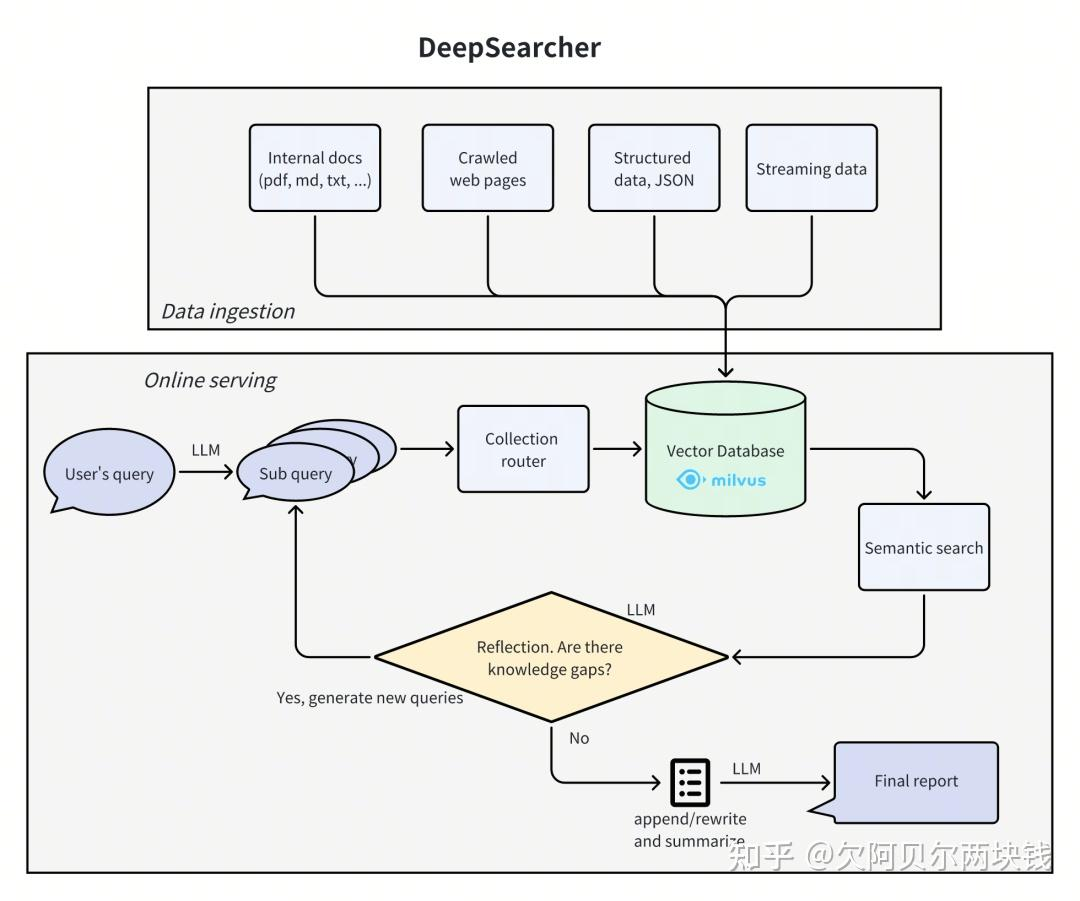
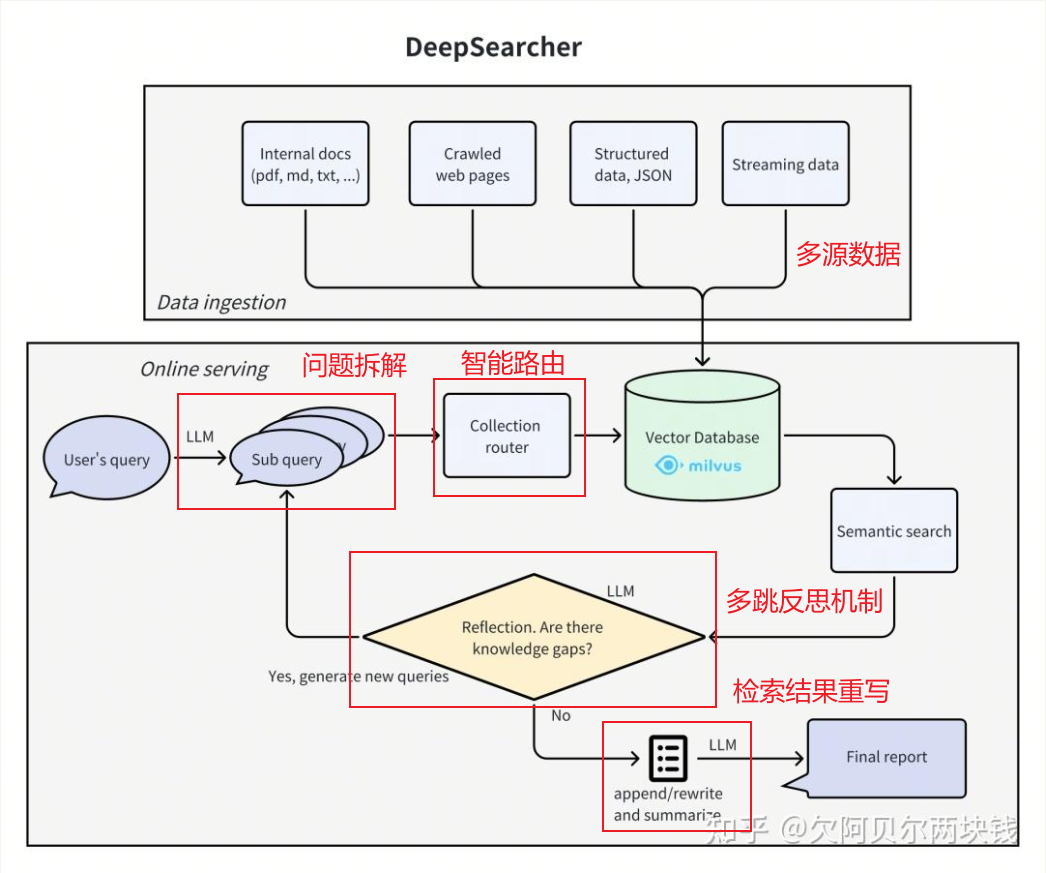
提交新文章1-261102

diff --git a/blog.html b/blog.html
@@ -2,10 +2,11 @@
 <html lang="zh-CN"><head><meta charset="utf-8"><meta name="viewport" content="width=device-width, initial-scale=1"><meta name="description" content="嘻嘻仙人的技术博客"><title>技术博客 · 嘻嘻仙人</title><link rel="stylesheet" href="styles.css"></head>
 <body><header class="site-header"><a class="brand" href="index.html">嘻嘻仙人</a><nav><a href="index.html">首页</a><a class="active" href="blog.html">技术博客</a><a href="notes.html">随笔</a></nav><a class="header-link" href="https://github.com/" target="_blank" rel="noreferrer">GitHub ↗</a></header>
 <main><section class="page-intro container"><p class="eyebrow">TECHNICAL BLOG</p><h1>把问题想明白，<br><em>再写下来。</em></h1><p class="intro-copy">关于Agent学习、通信技术和工程实践的长期记录。</p></section><section class="container article-list">
+<a class="article-row" href="articals/article-2e90df2780.html"><div class="article-index">25</div><div class="article-content"><p class="article-kicker">TECHNICAL BLOG · 2026-11-02</p><h2>从Transformer到LLM的思考（261102）</h2><p>曾几何时，我脑海中有了这样一个认知“Transformer模型是LLM的基础”，但是奇怪的是，我似乎并不知道这个认知从何而来，恰又读到了rubber duck的思考方法，借此机会进行梳理。</p></div><span class="arrow">↗</span></a>
 <a class="article-row" href="articals/article-fab9063b3f.html"><div class="article-index">24</div><div class="article-content"><p class="article-kicker">TECHNICAL BLOG · 2026-11-01</p><h2>从Transformer和Attention机制到LLM（261101）</h2><p>自从Transformer架构横空出世，到LLM蓬勃发展，我们意识到Transformer是LLM得以发展的驱动力之一，那么Transformer是如何为LLM奠定基础的，从Transformer最初用于文本翻译到后来用于大模型文本生成，这其中又有怎样的不同？本文将从输入文本到下一个 Token，解析LLM生成文本的全流程，以及这其中涉及的Transformer架构。</p></div><span class="arrow">↗</span></a>
 <a class="article-row" href="articals/article-4e2616643b.html"><div class="article-index">23</div><div class="article-content"><p class="article-kicker">TECHNICAL BLOG · 2026-10-30</p><h2>SDD规范开发（261030）</h2><p>Specification-Driven Development（规范驱动开发） 是一种软件开发方法，它强调在编写任何实际代码之前，必须首先编写一份详尽、精确、可执行的规范。这份规范是开发过程的唯一权威来源和主要驱动力。</p></div><span class="arrow">↗</span></a>
 <a class="article-row" href="articals/article-d6b0cdeb17.html"><div class="article-index">22</div><div class="article-content"><p class="article-kicker">TECHNICAL BLOG · 2026-10-29</p><h2>JEV（261029）</h2><p>在通用大模型盛行的今天，很多时候一些对延迟和响应速度极度敏感的任务大模型是无法胜任的，和llm无法避免概率模型本质造成的幻觉一样，大模型逐字做自回归生成的本质摆在那里，延迟很难压缩到极致。</p></div><span class="arrow">↗</span></a>
-<a class="article-row" href="articals/article-bf07542214.html"><div class="article-index">21</div><div class="article-content"><p class="article-kicker">TECHNICAL BLOG · 2026-10-27</p><h2>deep Research（261027）</h2><p>OpenAI 在 2024 年 9 月发布的 o1-preview，它引入了推理时计算（test-time compute）的概念，并逐渐改变了行业观点。推理时计算指的是在推理阶段（LLM 生成输出的阶段）使用更多计算资源，而不是在预训练或后训练阶段。众所周知的例子包括思维链（Chain-of-Thought，CoT）推理和 &quot;Wait&quot; 注入（即预算强制），这使模型能够进行更广泛的内部深思熟虑，比如评估多个潜在答案、进行更深入的规划，并在得出最终回答之前进行自我反思。</p></div><span class="arrow">↗</span></a>
+<a class="article-row" href="articals/article-bf07542214.html"><div class="article-index">21</div><div class="article-content"><p class="article-kicker">TECHNICAL BLOG · 2026-10-27</p><h2>deep Research（261027）</h2><p>尽管LLMs在通用任务中表现卓越，但是其知识受限于训练时的静态参数记忆， 难以应对动态或者专业领域任务。</p></div><span class="arrow">↗</span></a>
 <a class="article-row" href="articals/article-e75ac02a5e.html"><div class="article-index">20</div><div class="article-content"><p class="article-kicker">TECHNICAL BLOG · 2026-10-27</p><h2>Deferred MCP Tools（261027）</h2><p>Deferred MCP Tools（延迟加载的 MCP 工具）是一种将工具可见性与可调用性分离的上下文管理策略：模型默认只看到工具名或极简描述，完整 Schema 仅在任务需要时通过搜索或发现流程动态注入。它的核心价值不在于单纯节省 Token，而在于让 Agent 在连接数百甚至上千个工具时，不会因为上下文被无关定义塞满而丧失判断力。</p></div><span class="arrow">↗</span></a>
 <a class="article-row" href="articals/article-a2d0ccc46e.html"><div class="article-index">19</div><div class="article-content"><p class="article-kicker">TECHNICAL BLOG · 2026-10-26</p><h2>cross-encoder（261026）</h2><p>交叉编码器（Cross-encoder）是一种神经网络架构，用于将查询-文档对一起处理以计算相关性评分。与传统嵌入模型（Bi-encoder）分开处理查询和文档不同，交叉编码器允许两个序列中的所有token之间进行充分的自注意力交互，从而直接输出相关性评分。</p></div><span class="arrow">↗</span></a>
 <a class="article-row" href="articals/article-73e6ae28fb.html"><div class="article-index">18</div><div class="article-content"><p class="article-kicker">TECHNICAL BLOG · 2026-10-25</p><h2>缓存命中（261025）</h2><p>调用大模型API的返回值里面疆场会出现 cachereadinputtokens 这类字段。这其中藏着一条捷径，既能够成倍降低延迟，又能显著节省成本，这条捷径就是缓存命中</p></div><span class="arrow">↗</span></a>

diff --git a/articals/article-2e90df2780.html b/articals/article-2e90df2780.html
@@ -1,0 +1,3 @@
+<!doctype html>
+<html lang="zh-CN"><head><meta charset="utf-8"><meta name="viewport" content="width=device-width, initial-scale=1"><base href="../"><meta name="description" content="从Transformer到LLM的思考（261102）"><title>从Transformer到LLM的思考（261102） · 技术博客 · 嘻嘻仙人</title><link rel="stylesheet" href="styles.css"><link rel="stylesheet" href="article-tables.css"><link rel="stylesheet" href="article-toc.css"></head>
+<body><header class="site-header"><a class="brand" href="index.html">嘻嘻仙人</a><nav><a href="index.html">首页</a><a class="active" href="blog.html">技术博客</a><a href="notes.html">随笔</a></nav><a class="header-link" href="https://github.com/" target="_blank" rel="noreferrer">GitHub ↗</a></header><main><article class="article-page container"><div class="article-top"><a class="back-link" href="blog.html">← 技术博客</a><span>2026-11-02</span></div><p class="eyebrow">TECHNICAL BLOG</p><h1>从Transformer到LLM的思考（261102）</h1><div class="article-rule"></div><div class="article-layout"><aside class="article-toc" aria-label="文章目录"><button class="article-toc-toggle" type="button" aria-expanded="true" aria-controls="article-toc-panel"><span class="article-toc-toggle-label">文章目录</span><span aria-hidden="true">⌄</span></button><div class="article-toc-panel" id="article-toc-panel"><p class="article-toc-title">目录</p><nav class="article-toc-list"></nav></div></aside><div id="article-content" class="prose"><p class="loading">正在加载文章内容…</p></div></div></article></main><footer class="site-footer"><div class="container footer-inner"><span>© 2026 嘻嘻仙人</span><a href="blog.html">返回技术博客 ↑</a></div></footer><script src="https://cdn.jsdelivr.net/npm/marked/marked.min.js"></script><script>fetch("content/%E4%BB%8ETransformer%E5%88%B0LLM%E7%9A%84%E6%80%9D%E8%80%83%EF%BC%88261102%EF%BC%89.md").then(r=>r.text()).then(md=>{document.getElementById('article-content').innerHTML=marked.parse(md.replace(/^#.*\n/,''));}).catch(()=>{document.getElementById('article-content').textContent='文章加载失败，请检查 Markdown 文件是否已发布。';});</script><script src="https://cdn.jsdelivr.net/npm/highlight.js@11.11.1/lib/common.min.js"></script><script src="script.js"></script><script src="article-toc.js"></script></body></html>

diff --git a/content/从Transformer到LLM的思考（261102）.md b/content/从Transformer到LLM的思考（261102）.md
@@ -1,0 +1,28 @@
+# 从Transformer到LLM的思考（261102）
+
+曾几何时，我脑海中有了这样一个认知“Transformer模型是LLM的基础”，但是奇怪的是，我似乎并不知道这个认知从何而来，恰又读到了rubber duck的思考方法，借此机会进行梳理。
+
+首先需要明确一个逻辑上的误区，Transformer并不是为LLM而量身定制的，只是人们从Transformer的架构中发现了适合作为LLM文本生成的部分，进而进行开发与扩展。在时间上，Transfomer是谷歌于2017年提出的，Transformer模型最大的亮点就是摒弃了以往RNN，CNN的架构，而是使用了self-attention,从而实现更高效的并行计算，并有效解决了长距离依赖问题（每个token都可以与序列中其他token计算注意力计算）。
+
+而LLM的兴起则是2020年openAI发布的GPT-3（Generative Pre-trained Transformer 3），其中GPT-3 使用的是decoder-only架构，LLM可以通过自回归推理由当前的token输出下一个token，循环往复。
+
+以上的论述才充分解释了一句轻飘飘的“Transformer模型是LLM的基础”。实际上以上两段的陈述就是通过rubber duck的方法才厘清了其中的时间线和逻辑关系。
+
+至于为什么LLM大多数只用了decoder-only架构而不是encoder-only或者encoder-decoder架构呢？首先注意用词，我说的是大多数，而非全部，像最开始的BERT使用的就是encoder-only架构，T5使用的是encoder-decoder架构，而claude则在decoder-only架构上引入了MoE，deepseek-R1最开始也只是使用了decoder-only，后面也引入了MoE。由此可见，Transformer的架构更像是一种理论基础和范式，开发者们是在其上建高楼，至于是建酒店还是商场则取决于不同模型的设计初衷了。
+
+言归正传，我们先来看下Transformer里面的encoder和decoder都干了什么。Transformer最初是面向Seq2Seq任务开发的，输入序列可以通过Transformer得到输出序列，最典型的应用场景是语言翻译。其中encoder中的自注意力机制使得在抽取某个序列中的词的特征时，能够看到整个序列的上下文，可以和上下文的每个token计算注意力分数，而decoder引入了掩码机制，当前的token只能看到自己和之前的token，看不到后面的token。这天然适合文本生成的场景：根据当前已知内容生成新的内容。
+
+decoder-only在LLM中能够大行其道主要是以下几个优势：
+
+- 训练成本低：decoder-only可以用next token prediction做预训练，不需要构建标记的大量数据集。比如“我喜欢机器学习”，把“学习”遮住，那么任务就是根据“我喜欢机器”去预测“学习”，预训练的目的就是尽可能地让模型学会人类的语言方式进行回答问题，但是模型真的能get到人类的思维方式吗？答案是否定的。模型通过自回归不断地学习预测下一个token,这个过程实际上是在压缩自然语言，把自然语言背后的逻辑与内涵进行参数化。除此之外，当模型规模和数据量足够大时，通过next prediction token训练出的模型会涌现出更强大的能力，在各种上下游任务上的zero-shot和few-shot泛化能力都很好。
+
+- 注意力矩阵满秩：回忆一下，矩阵的秩可以被直观地理解为真正独立的信息通道数或者有效信息的维度。在神经网络中，权重矩阵的作用是将输入特征进行组合变换，从而提取中高级的语义特征。如果权重矩阵是满秩的，则意味着模型能够充分利用所有的特征维度，在同等的参数量下，满秩权重矩阵能够捕捉到更丰富、更细微的上下文联系，因此拥有更强的表达能力和建模能力。在encoder中采用的双向注意力机制（bi-directional attention），每个token都可以看到序列中的其他token,模型在计算时容易产生表征趋同现象，导致注意力矩阵退化为低秩状态;而decoder-only采用的是causal attention，注意力矩阵是下三角矩阵，必然是满秩的，建模能力更强。
+
+- decoder-only的causal attention具有隐式的位置编码功能，打破了transformer的位置不变性，而带有双向attention的模型，如果不带位置编码则对于语序的区分能力较弱。
+
+- decoder-only支持 KV cache，对多轮对话更友好。因为不存在“预测下一个词”的先后顺序，encoder在推理时可以对整个输入序列进行一次性、全并行的计算，可以在一次前向传播中同时算出K和V，不需要随着生成步骤增加而不断追加历史状态的需求，因此，在encoder阶段使用KV cache没有逻辑上的必要性。
+
+
+
+
+
